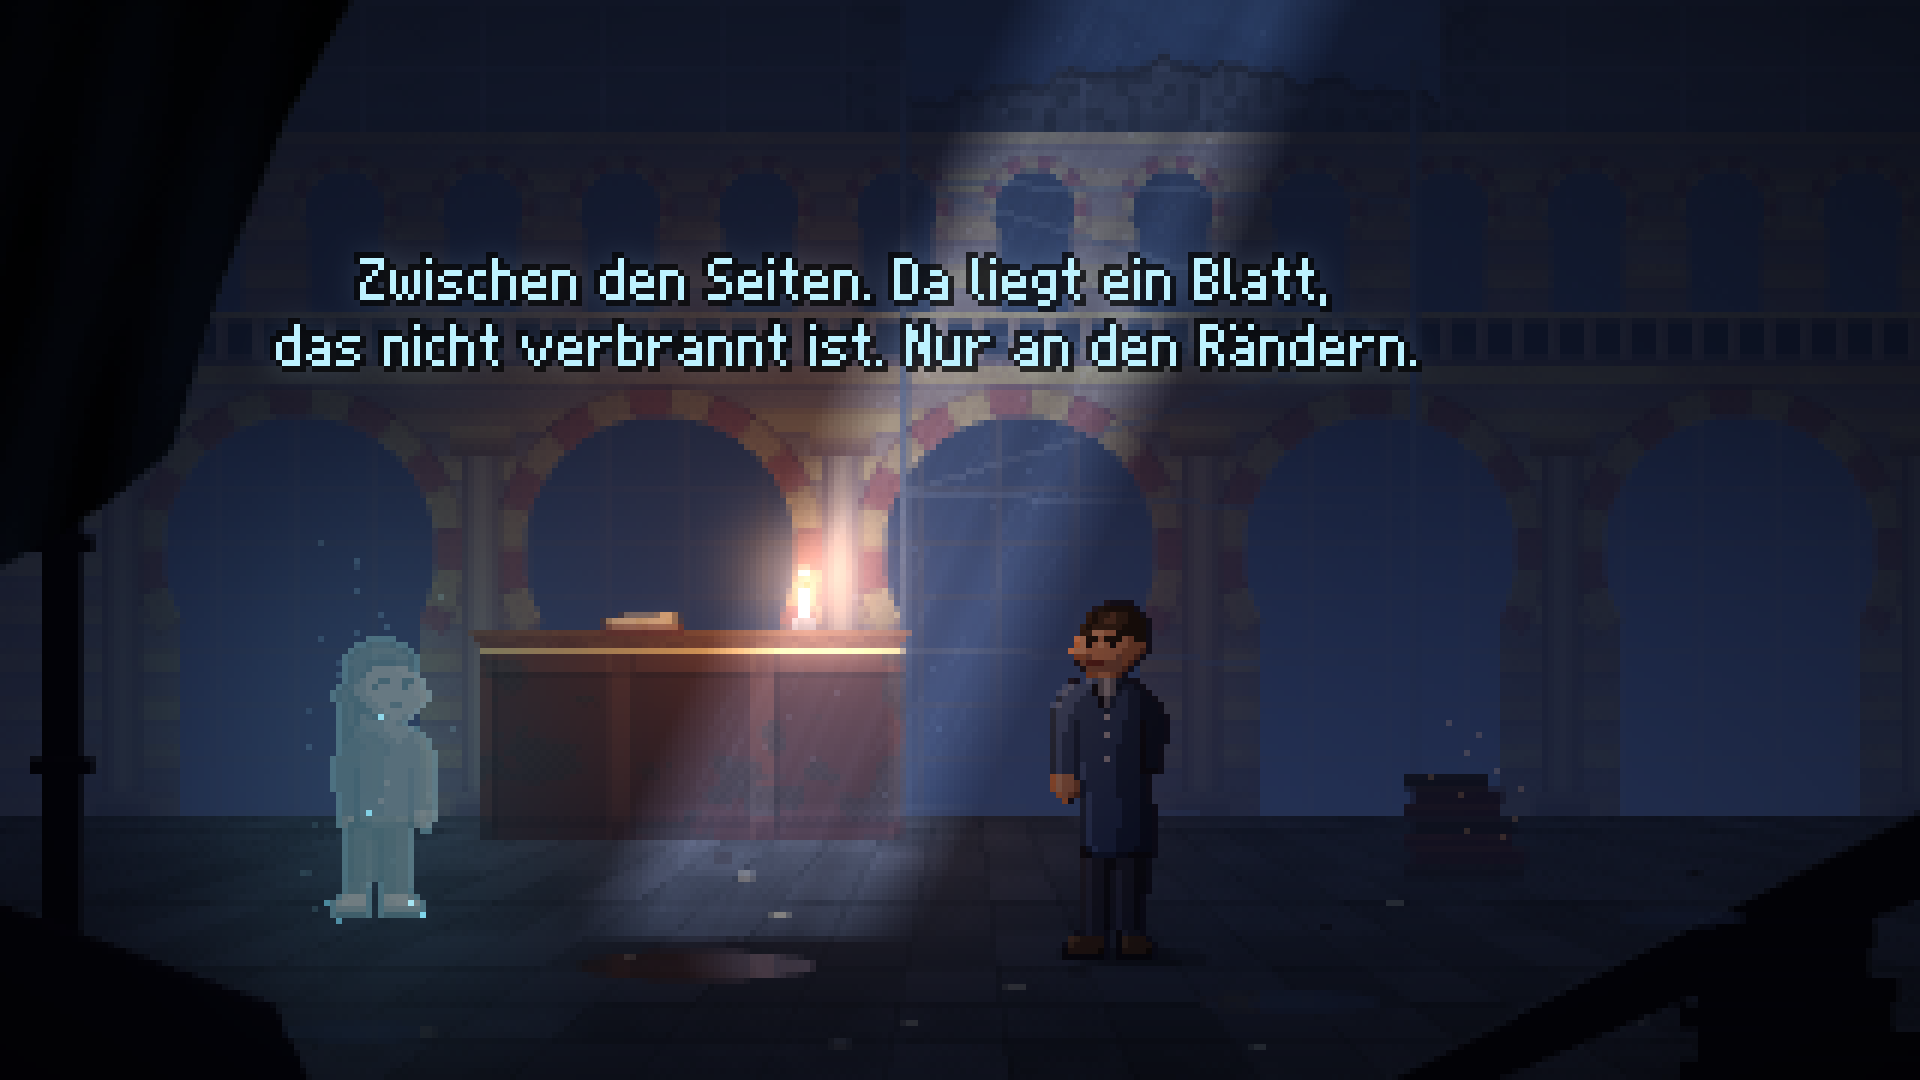
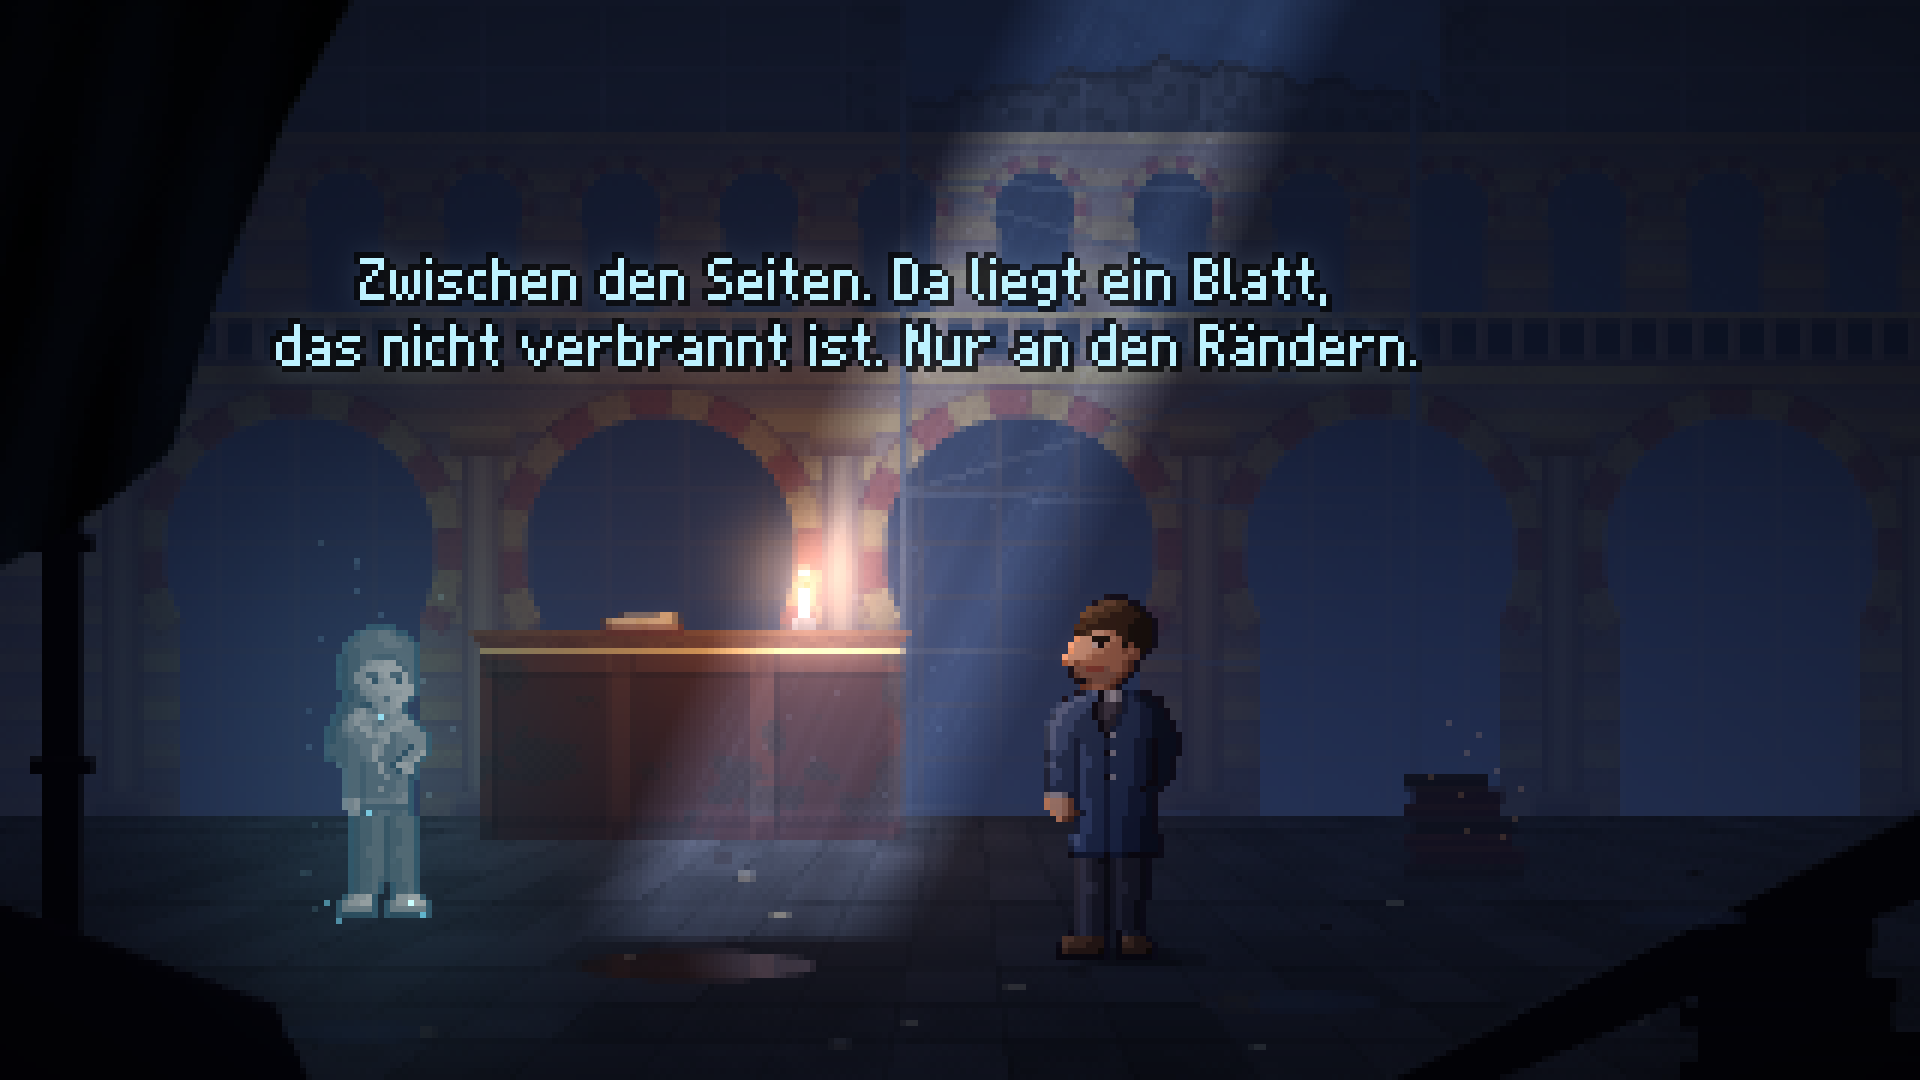
Musterfiguren Marko und Mala neu gezeichnet (Proportionen, Gesichter, Hände, Falten)
Claude-Session: https://claude.ai/code/session_018SiG6GXfYC6gzdWKXnarfp

Changed region(s): [[0.5312, 0.55, 0.625, 0.7944], [0.1562, 0.5806, 0.25, 0.7944], [0.1562, 0.7944, 0.25, 0.8556]]

diff --git a/design/tools/hd_figuren_beispiel.js b/design/tools/hd_figuren_beispiel.js
@@ -396,121 +396,124 @@ function blur(src, w, h, r, passes) { let a = Float32Array.from(src), b = new Fl
       for (let y = 0; y < h; y++) { a[(y * w + x) * 3 + k] = acc / (2 * r + 1); acc += b[(clamp(y + r + 1, 0, h - 1) * w + x) * 3 + k] - b[(clamp(y - r, 0, h - 1) * w + x) * 3 + k]; } } } return a; }
 function bil(a, w, h, fx, fy, k) { const x = clamp(fx, 0, w - 1.001), y = clamp(fy, 0, h - 1.001), x0 = Math.floor(x), y0 = Math.floor(y), u = x - x0, v = y - y0, i00 = (y0 * w + x0) * 3 + k, i10 = i00 + 3, i01 = i00 + w * 3, i11 = i01 + 3;
   return (a[i00] * (1 - u) + a[i10] * u) * (1 - v) + (a[i01] * (1 - u) + a[i11] * u) * v; }
-// ================================================================ Figuren von Hand (Legende: Zeichen → Farbe), Licht von links (Kerze)
-const FPAL = {"K": "#120f18", "h": "#1c140f", "H": "#33241a", "i": "#54392a", "q": "#5e3426", "s": "#94583a", "S": "#c07c58", "t": "#e0a47c", "b": "#7a5040", "e": "#160f12", "m": "#5a2420", "w": "#d8cfc8", "c": "#121729", "C": "#1b2540", "D": "#2a3a60", "E": "#41588a", "F": "#6a82b0", "g": "#5e6270", "G": "#9ea2ae", "p": "#15141c", "P": "#272734", "Q": "#3c3c4e", "o": "#24130c", "O": "#56301e", "u": "#82502e", "y": "#b0b4be", "j": "#1c2c4a", "J": "#2c4670", "L": "#4a6a9c", "M": "#7092c4", "x": "#3a3a42", "X": "#646470", "Z": "#9a9aa6", "n": "#16203a", "N": "#25365a", "V": "#3a5080", "k": "#8a8478", "l": "#d6d0c0", "r": "#f2eee2", "a": "#22140c", "A": "#4a2c18", "B": "#74462a", "f": "#a46a4c", "T": "#dca888", "U": "#f0c8a8"};
+// ================================================================ Figuren von Hand (Legende: Zeichen → Farbe); Marko sieht nach links, Mala nach rechts
+const FPAL = {"K": "#0e0b13", "h": "#16100c", "H": "#2a1c14", "i": "#43301f", "j": "#634631", "q": "#4a281d", "s": "#7a4631", "S": "#a4664a", "t": "#c98a66", "T": "#e6ad88", "b": "#7c5444", "d": "#58382c", "e": "#140c0e", "w": "#cdc1b8", "m": "#80382e", "c": "#0d1220", "C": "#161e36", "D": "#223152", "E": "#354b7a", "F": "#566fa0", "v": "#25232d", "V": "#3c3946", "g": "#6e727e", "G": "#adb1bc", "p": "#101016", "P": "#1f1f29", "Q": "#30303c", "R": "#454554", "o": "#190d08", "O": "#3f2318", "u": "#673b25", "U": "#94593a", "y": "#8e94a2", "a": "#1e120b", "A": "#3e2414", "B": "#633a20", "I": "#8a5530", "f": "#8e5a44", "k": "#b57c62", "l": "#d9a486", "n": "#f0c6a8", "J": "#1a2944", "L": "#2a4068", "M": "#40608f", "N": "#6486b8", "x": "#3c3b44", "X": "#5e5d68", "Z": "#8a8996", "z": "#b4b3be", "r": "#121a2e", "W": "#20304e", "Y": "#33486e", "1": "#77736a", "2": "#bdb7a8", "3": "#ece8dc", "4": "#5a1f22"};
 const SPR_MARKO = [
-"..........KKKKK.........",
-"........KKhhhhhK........",
-".......KhHHiHHhhK.......",
-".......KhHiiHHhhhK......",
-"......KhHHHHHhhhhK......",
-"......KHttSShhhhhK......",
-".....KthhShhhSshhK......",
-".....KteStSeSSsssK......",
-"....KttSSSSSSsssqK......",
-".....KsbSSSSbssqK.......",
-".....KbmmmbbbsqK........",
-"......KbbbbbbqK.........",
-".......KsSSsqK..........",
-"....KKKFEgGgCcKK........",
-"...KFEEEKgGgKCCcK.......",
-"..KFEEEDKgGgKDCCcK......",
-"..KEEEDDDKgKDDCCccK.....",
-".KFEEDDDDKgKDDCCcccK....",
-".KEEEDDDDDKDDDCCcccK....",
-".KEEDDDDDDyDDDCCccccK...",
-".KEEDKDDDDDDDCCCKcccK...",
-".KEEDKDDDDDDDCCCKcccK...",
-".KEDDKDDDDyDDCCCKcccK...",
-".KEDDKDDDDDDDCCCKcccK...",
-".KEDDKDDDDDDCCCCKccK....",
-".KEDDKDDDDDDCCCCKccK....",
-".KEDDKDDDDyDCCCCKccK....",
-".KEDDKEDDDDDCCCCKccK....",
-".KEDDKEDDDDDCCCCKKKK....",
-".KtSSKEDDDDDCCCCcK......",
-".KtSSsKDDDDDCCCCcK......",
-".KtSSsKDDDDDCCCCcK......",
-"..KSsKKEDDDDCCCCcK......",
-"...KK.KEDDDDDCCCcK......",
-"......KEDDDDDCCCccK.....",
-"......KEDDDDDCCCccK.....",
-"......KEDDDDDCCCccK.....",
-"......KEDDDDDCCCccK.....",
-"......KEDDDDCCCCccK.....",
-"......KEDDDDCCCCccK.....",
-"......KEDDDDCCCCccK.....",
-"......KKEDDDCCCcccK.....",
-"......KKKKKKKKKKKKK.....",
-"......KQPPpKPPPppK......",
-"......KQPPpKPPPppK......",
-"......KQPPpKQPPppK......",
-"......KQPPpKQPPppK......",
-"......KQPPpKQPPppK......",
-"......KQPPpKQPPppK......",
-"......KQPPpKQPPpK.......",
-"......KQPPpKQPPpK.......",
-"......KQPPpKQPPpK.......",
-"......KQPPpKQPPpK.......",
-"......KQPPpKQPPpK.......",
-"......KQPPKKQPPpK.......",
-".....KKQPPK.KQPPK.......",
-"....KuOOOOK.KuOOOK......",
-"...KuOOOOOK.KuOOOOK.....",
-"...KOOOOOoK.KOOOOoK.....",
-"...KKKKKKKK.KKKKKKK....."];
+"...........KKKK...........",
+".........KKjjiiKK.........",
+"........KjjiiiHHhK........",
+".......KjiiiHHHHHhK.......",
+".......KiiHHHHHHhhhK......",
+"......KiHHHHHHHhhhhK......",
+"......KHiTTtSHHhhhhK......",
+"......KTThhhtSHhhhhK......",
+".....KTTTwetSShshhhK......",
+".....KTTTttSSSsSshK.......",
+"....KTTTtSSSSSSssK........",
+"....KtsSSSSSSSsqK.........",
+".....KbbmmmbSSsqK.........",
+".....KdbbbbbbsqK..........",
+"......KKdbbbsqK...........",
+".......KsSSsqK............",
+"......KKEFKgGgKCcKK.......",
+"....KKFFEEKgGgKDCccKK.....",
+"...KFFEEEKvVVvKDDCccK.....",
+"..KFFEEEDKvVVvKDDCCccK....",
+"..KFEEEDDKvVvKDDDCCccK....",
+".KFFEEDDDDKvvKDDDCCcccK...",
+".KFEEEDDDDKvKDDDDCCcccK...",
+".KFEEDDDDDDKyDDDDCCccccK..",
+".KFEEDKDDDDKDDDDCCcKcccK..",
+".KFEEDKEDDDKDDDDCCcKcccK..",
+".KEEDDKEDDDKyDDDCCcKcccK..",
+".KEDDDKEEDDKDDDDCCcKccK...",
+".KFDDDKEEDDKDDDDCCcKccK...",
+".KEEDDKEDDDKDDDDCCcKccK...",
+".KEEDDKEDDDKyDDDCCcKccK...",
+".KEDDDKEDDDKDDDDCCKKcK....",
+".KDDDDKEDDDKDDDCCKccK.....",
+".KGGgKKEDDDKDDDCCCcK......",
+".KTTtsKEEDDKDDDCCCcK......",
+".KTTtsKEEDDKDDDCCCcK......",
+"..KTtsqKEDDKDDDCCCcK......",
+"...KKKKEEDDKDDCCCccK......",
+"......KEEDDKDDCCCccK......",
+"......KEEDDKDDCCCccK......",
+".....KFEDDDKDDCCCcccK.....",
+".....KFEDDDKDDCCCcccK.....",
+".....KEEDDDKDDCCCcccK.....",
+".....KKKKKKKKKKKKKKKK.....",
+"......KRQPpKKQPPPpK.......",
+"......KRQPPpKQPPPpK.......",
+"......KRQPPpKQPPPpK.......",
+"......KRQPPpKQPPPpK.......",
+"......KRRQPpKQQPPpK.......",
+"......KRRQPpKQQPPpK.......",
+"......KRQPPpKQPPPpK.......",
+"......KRQPPpKQPPpK........",
+"......KRQPPpKQPPpK........",
+"......KRQPPpKQPPpK........",
+"......KRQPPpKQPPpK........",
+"......KRQPPKKQPPpK........",
+".....KKRQPPK.KQPPK........",
+"....KUuuuOOK.KUuOOK.......",
+"...KUuuuOOOK.KuuOOOK......",
+"...KuOOOOOoK.KOOOOoK......",
+"...KKKKKKKKK.KKKKKKK......"];
 const SPR_MALA = [
-"........KKKKK.........",
-"......KKaAAAaKK.......",
-".....KaABBBBAAaK......",
-"....KaBBAAAAAAAaK.....",
-"....KaAAaaaaaAAAK.....",
-"....KAUUTTTTaAAaK.....",
-"....KUUTTTTTTaAaK.....",
-"...KUaaTTaaTTfAaK.....",
-"...KUTeTTTTeTffAaK....",
-"..KUUTTTTTTTTffaAaK...",
-"..KUTTTTTTTTffaaAaK...",
-"...KTTTmmTTffaKAaK....",
-"....KTTTTTffaKKAaK....",
-".....KKTTffKKXKAaK....",
-"......KXZZXXXXKAaK....",
-"....KKZZZZXXXxxKaK....",
-"...KMLZZZXXxxJJKaK....",
-"..KMMLLZXXxxJJjjKK....",
-"..KMLLLLXxJJJjjjjK....",
-".KMLLLLLXxJJJJjjjK....",
-".KMLLLLLLXJJJJjjjjK...",
-".KMLLLLLLXJJJJjjjjK...",
-".KMLLKLLLXJJJJKjjjK...",
-".KMLLKLLLXJJJJKjjjK...",
-".KMLLKLLLyJJJJKjjjK...",
-".KMLLKLLLLJJJJKjjjK...",
-".KMLLKLLLLJJJJKjjK....",
-".KMLLKLLLLyJJJKjjK....",
-".KLLLKLLLLJJJJKjjK....",
-".KTUTKLLLLJJJJKjjK....",
-".KTUTKMMLLLLJJKTfK....",
-"..KTKKKKKKKKKKKKfK....",
-"..KK.KVVNNKKNNNKK.....",
-".....KVVNNnKNNNnK.....",
-".....KVVNNnKVNNnK.....",
-".....KVVNNnKVNNnK.....",
-".....KVVNNnKVNNnK.....",
-".....KVVNNnKVNNnK.....",
-".....KVVNNnKVNNnK.....",
-".....KVVNNnKVNNnK.....",
-".....KVVNNKKVNNnK.....",
-".....KVVNNK.KVNNK.....",
-".....KVVNNK.KVNNK.....",
-"....KKrrrlK.KrrrlK....",
-"...KrrrrllK.KrrrrlK...",
-"...KkkkkkkK.KkkkkkK...",
-"...KKKKKKKK.KKKKKKK..."];
+".........KKKKK........",
+".......KKBBIIBKK......",
+"......KABBBIIIBBK.....",
+".....KABBBBBIIIBBK....",
+".....KAABBBBBBBBBK....",
+"....KaAABBAAAABBBK....",
+"....KaAABkllnnABBK....",
+"....KaAAkllnnnnABK....",
+"....KaAkkAAlnAAnBK....",
+"....KaAkkweklwenBK....",
+"....KaAAkklllnnnnK....",
+".....KaAfkkllllnnK....",
+".....KaAAfkk4lnnK.....",
+"....KaAAKKfkklnK......",
+"....KaAKzXxkklkK......",
+"...KaAKzzZZXXZZzK.....",
+"...KaKNzZZXxZZzzzK....",
+"..KaAKNMzzXZZzzNNNK...",
+"..KaAKMMMzZzzLMNNNNK..",
+"..KaAKLMMMXZzLMMNNNK..",
+"..KAAKLLMMzZLLMMKNNK..",
+"..KAKJLLMMzZLLMKNNnK..",
+"..KKKJLLKMzLLLKNNnK...",
+"....KJLLKLLzLKnnlK....",
+".....JLLKLLzLLKlnK....",
+".....KLLKLLLyLLMKK....",
+".....KLLKLLLLLMMK.....",
+".....KLLKLLyLLMMK.....",
+".....KLLKLLLLMMNK.....",
+".....KklKMMMMMNNK.....",
+".....KklKJJJJJJJK.....",
+"......KKKWWYYWWYK.....",
+"......KrWWYYKWYYYK....",
+"......KrWWYYKWYYYK....",
+"......KrWWYYKWWYYK....",
+"......KrWWYYKWWYYK....",
+"......KrWWYYKWWYYK....",
+"......KrWYYYKWYYYK....",
+"......KrWYYYKWYYYK....",
+"......KrWWYYKWWYYK....",
+"......KrWWYYKWWYYK....",
+"......KrWWYYKWWYYK....",
+"......KrWWYKKWWYYK....",
+"......KrWWYK.KWWYK....",
+"......KrWWYK.KWWYK....",
+".....KK223K..K2233K...",
+"....K12233K.K122333K..",
+"....K11111K.K111111K..",
+"....KKKKKKK.KKKKKKKK.."];
 const hexc = h => [parseInt(h.slice(1, 3), 16) / 255, parseInt(h.slice(3, 5), 16) / 255, parseInt(h.slice(5, 7), 16) / 255];
 // Kontur nur, wo nötig: außen die dunkelste Farbe der Fläche daneben statt Schwarz, unten und zur Schattenseite Schwarz
 function selout(rows) { const h = rows.length, w = rows[0].length, g = (x, y) => (x < 0 || y < 0 || x >= w || y >= h) ? '.' : rows[y][x];
-  const dark = { E: 'C', F: 'D', D: 'C', C: 'c', G: 'g', t: 's', S: 's', s: 'q', T: 'f', U: 'f', L: 'J', M: 'J', Z: 'X', X: 'x', h: 'h', H: 'h', i: 'h', a: 'a', A: 'a', B: 'A', Q: 'P', P: 'p', V: 'N', N: 'n', r: 'k', l: 'k', O: 'o', u: 'O', J: 'j' };
+  const dark = { E: 'C', F: 'D', D: 'C', C: 'c', G: 'g', T: 't', t: 's', S: 's', s: 'q', n: 'l', l: 'k', k: 'f', L: 'J', M: 'L', N: 'M', z: 'Z', Z: 'X', X: 'x', H: 'h', i: 'H', j: 'i', A: 'a', B: 'A', I: 'B', Q: 'P', P: 'p', R: 'Q', W: 'r', Y: 'W', '2': '1', '3': '2', O: 'o', u: 'O', U: 'u', V: 'v', J: 'J' };
   return rows.map((r, y) => r.split('').map((ch, x) => { if (ch !== 'K') return ch; const nb = [g(x + 1, y), g(x, y - 1), g(x - 1, y)].filter(c => c !== '.' && c !== 'K');
     const below = g(x, y + 1) === '.' || g(x, y + 1) === 'K'; if (!nb.length || (below && y > h - 6)) return 'K'; const n = nb[0]; const d = dark[n]; return (x < w * 0.55 && d && g(x + 1, y) !== '.' ) ? d : 'K'; }).join('')); }
 const MK = selout(SPR_MARKO), ML = selout(SPR_MALA);
@@ -525,12 +528,12 @@ function placeFig(rows, fx, fy, flip, ghost) { const h = rows.length, w = rows[0
     const kc = Math.pow(Math.max(0, 1 - dc / 210), 2) * 2.3, toCandle = (CANDLE[0] < PX) ? tr(x - (flip ? -1 : 1) * 0, y) : false;
     const edgeL = tr(x - 1, y), edgeR = tr(x + 1, y), edgeT = tr(x, y - 1), candleSide = CANDLE[0] < PX ? edgeL : edgeR, moonSide = CANDLE[0] < PX ? edgeR : edgeL;
     const i = (Y * W2 + X) * 3;
-    for (let k = 0; k < 3; k++) { let L = AMB[k] * 1.1 + WARM[k] * kc + MOON[k] * s * 1.6; if (candleSide) L += WARM[k] * kc * 0.9; if (moonSide || edgeT) L += MOON[k] * 0.35;
-      let v = b[k] * L; if (ghost) { const lum = b[0] * 0.3 + b[1] * 0.59 + b[2] * 0.11, g = [0.35 + lum * 0.55, 0.62 + lum * 0.38, 0.72 + lum * 0.3][k] * (edgeL || edgeR || edgeT ? 1.15 : 0.92); v = c2[i + k] * 0.32 + g * 0.66; }
+    for (let k = 0; k < 3; k++) { let L = AMB[k] * 1.55 + 0.12 + WARM[k] * kc * 1.15 + MOON[k] * s * 1.6; if (candleSide) L += WARM[k] * kc * 0.9; if (moonSide || edgeT) L += MOON[k] * 0.35;
+      let v = b[k] * L; if (ghost) { const lum = b[0] * 0.3 + b[1] * 0.59 + b[2] * 0.11, lc = Math.pow(lum, 0.85) * 1.25, g = [0.12 + lc * 0.78, 0.34 + lc * 0.66, 0.46 + lc * 0.56][k] * (edgeL || edgeR || edgeT ? 1.12 : 0.95); v = c2[i + k] * 0.2 + g * 0.8; }
       c2[i + k] = tone(v * 1.1); } } }
 const MK_F = [186, 159], ML_F = [63, 152];
 placeFig(MK, MK_F[0], MK_F[1], false, false);
-placeFig(ML, ML_F[0], ML_F[1], true, true);
+placeFig(ML, ML_F[0], ML_F[1], false, true);
 // Lichtpunkte um Mala (auf dem groben Raster)
 for (let k = 0; k < 14; k++) { const x = Math.floor(ML_F[0] - 12 + h2(k, 21, 70) * 24), y = Math.floor(ML_F[1] - 50 + h2(k, 22, 70) * 56), i = (y * W2 + x) * 3; if (h2(k, 23, 70) < 0.5) continue; for (let c = 0; c < 3; c++) c2[i + c] = Math.min(1, c2[i + c] + GLOW[c] * 0.45); }
 
